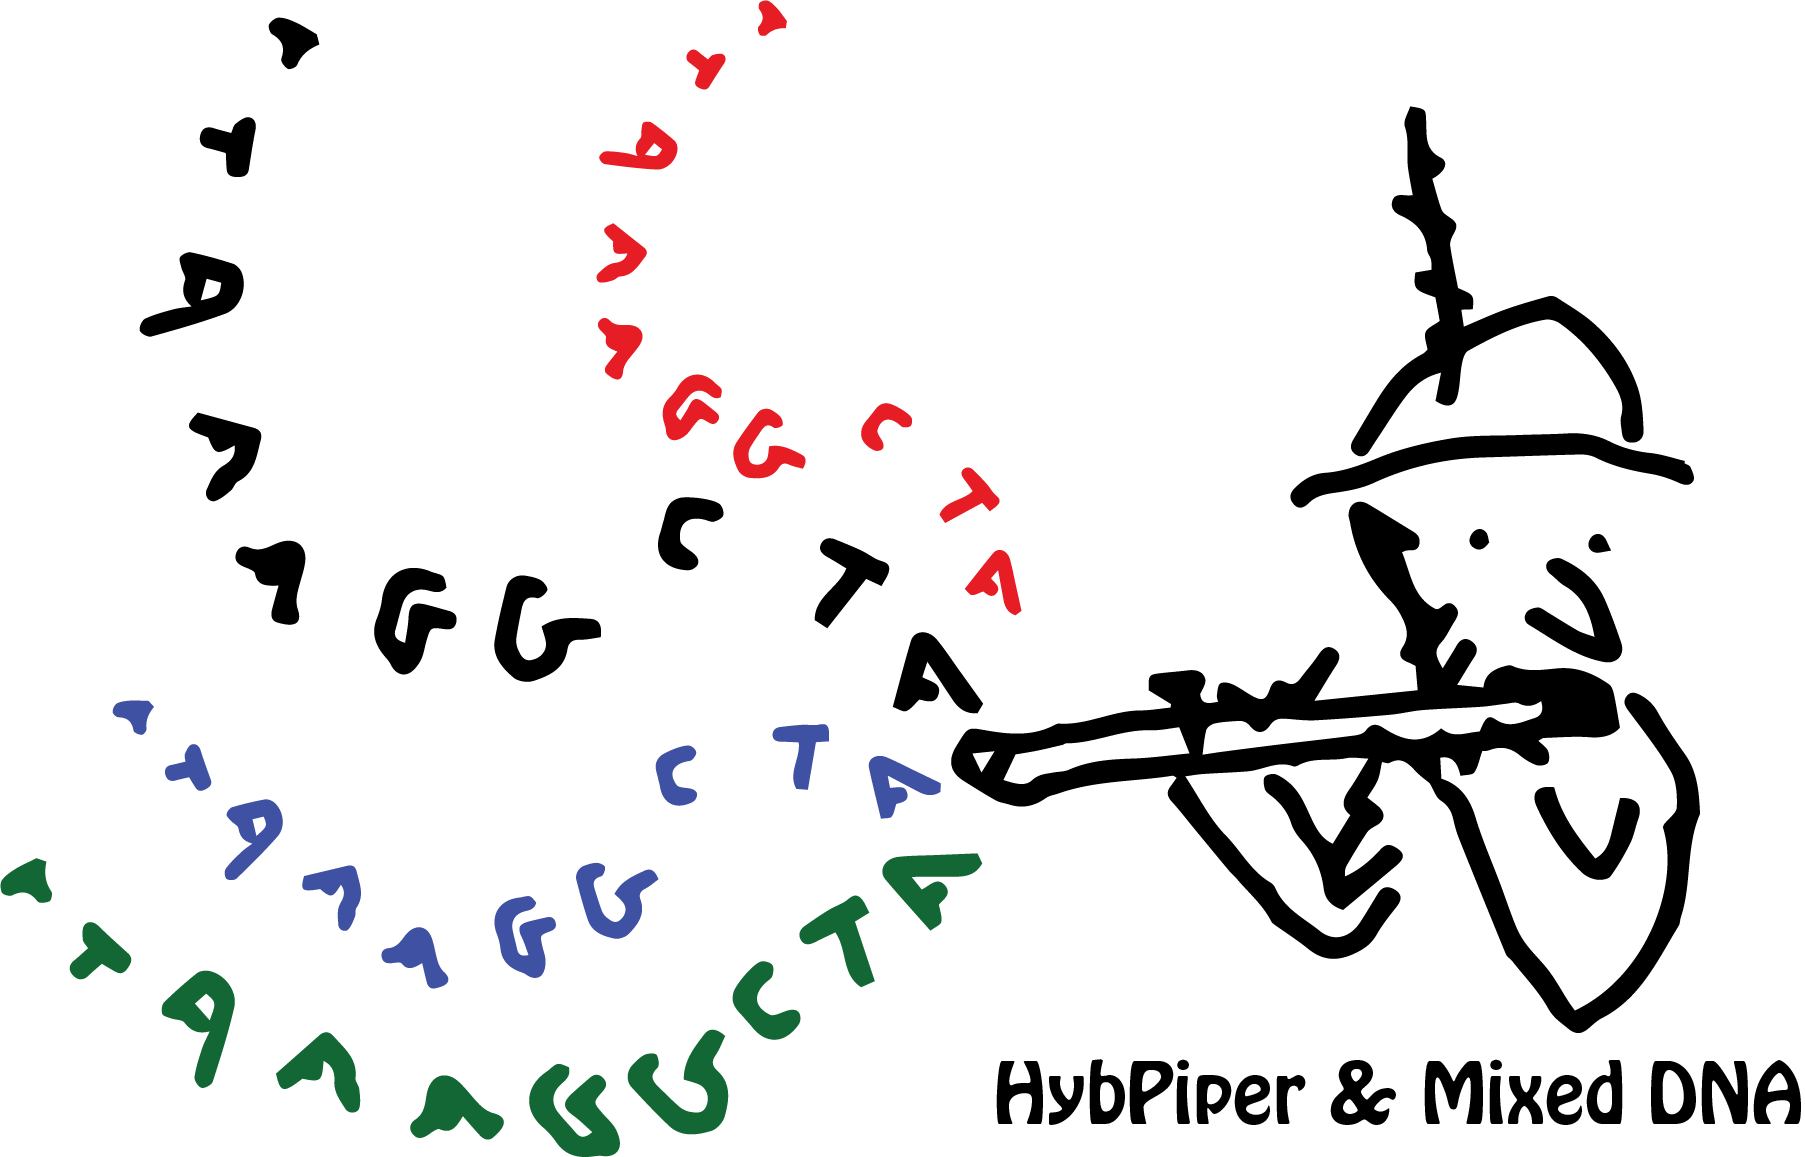
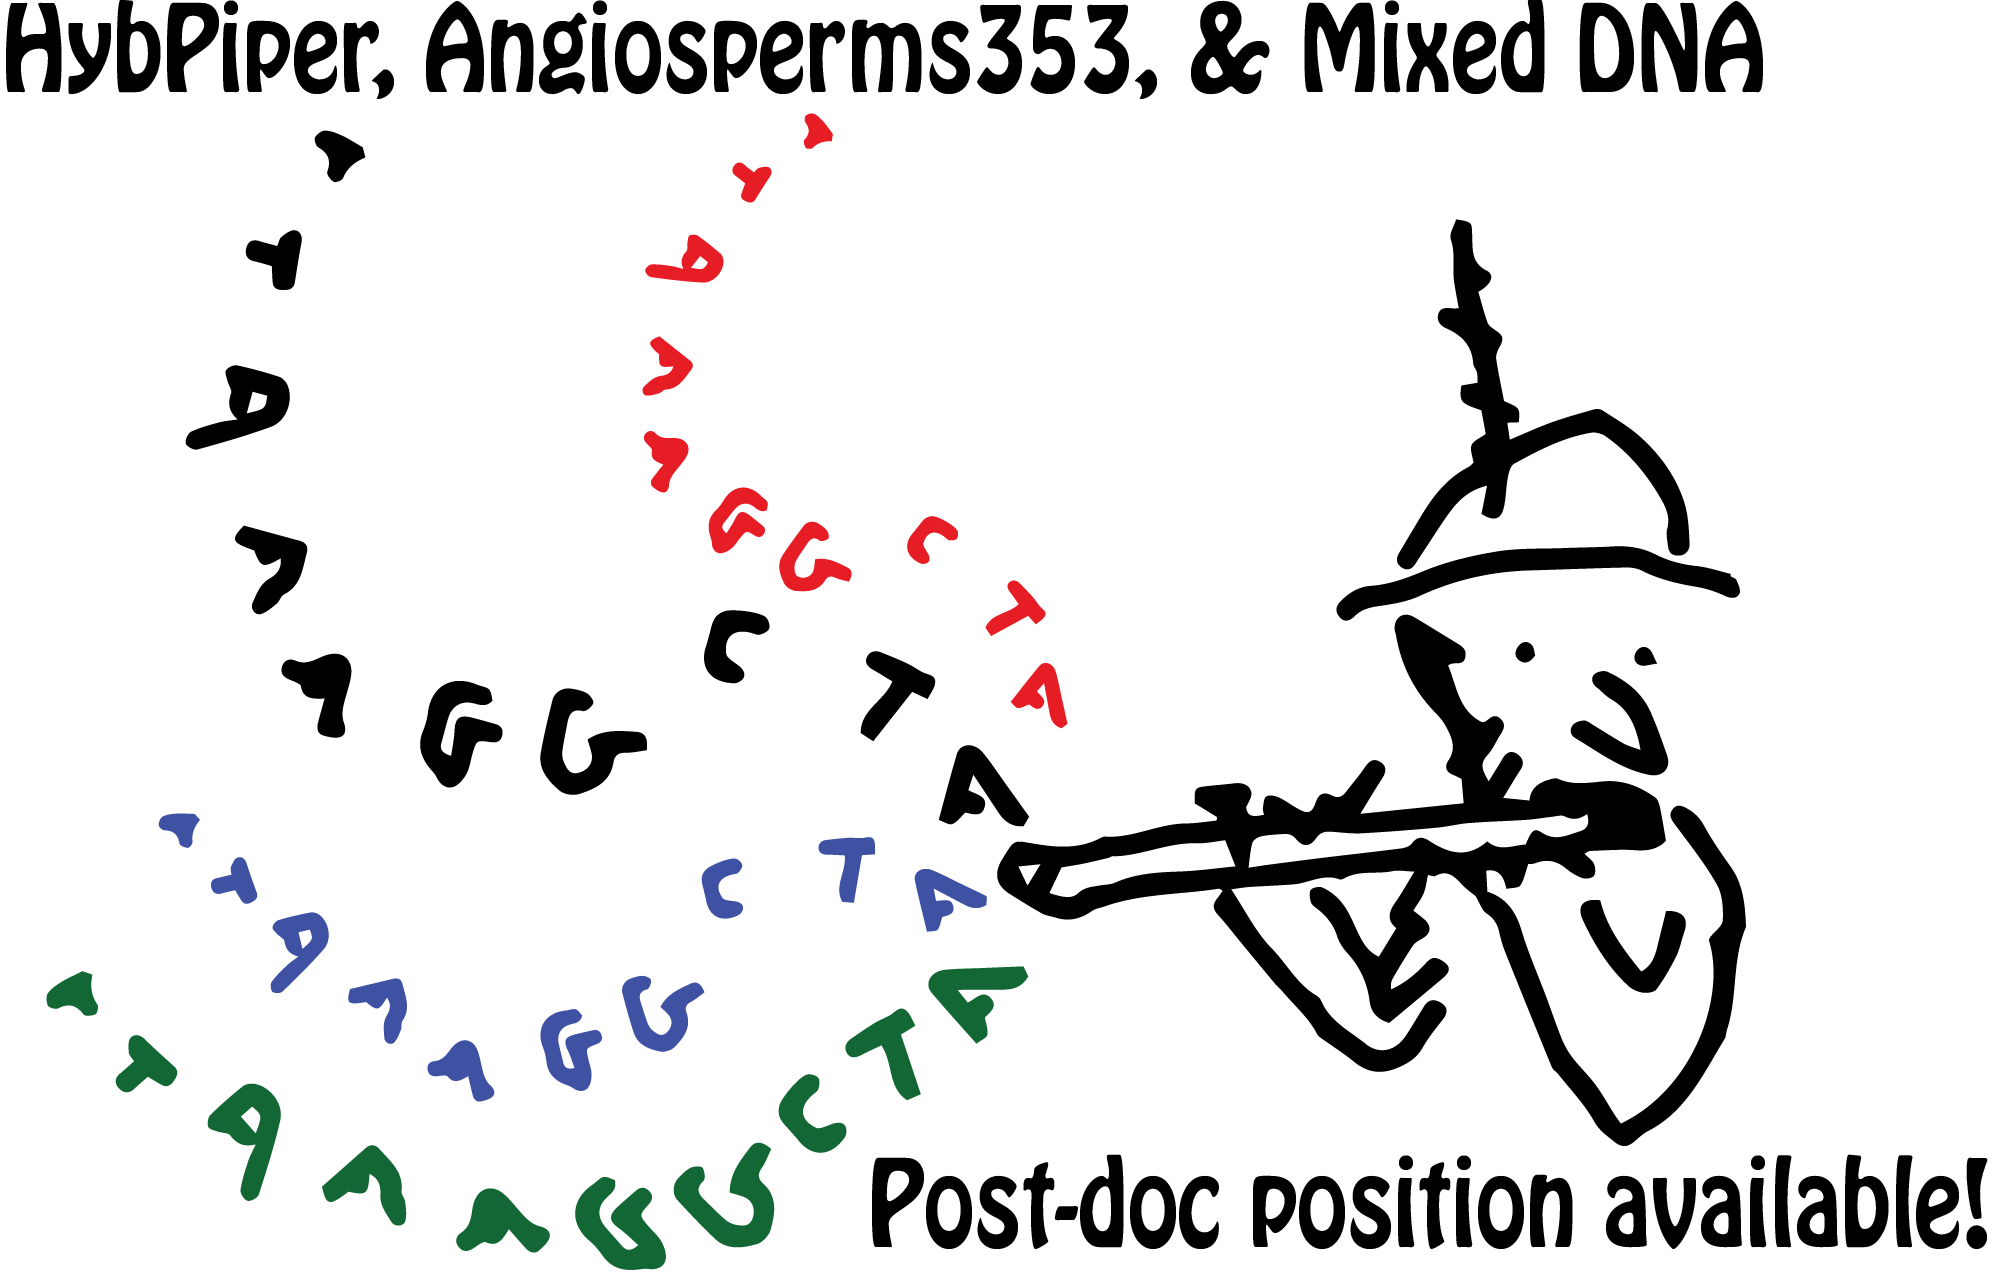
FDA postdoc ad

diff --git a/blog/_posts/2022-10-04-PostdocFDABAA.md b/blog/_posts/2022-10-04-PostdocFDABAA.md
@@ -5,12 +5,12 @@ author_handle: mossmatters
 image: /assets/images/projects/HybPiper_Mixed.png
 category: research
 homepage: false
-published: false
+published: true
 ---
 
 # Post-Doctoral Research Position
 
-The Johnson Lab at Texas Tech University (Lubbock, Texas) is looking for a postdoctoral scholar to develop novel bioinformatics methods that extend targeted DNA sequencing in plants for used on mixed and unknown samples. This two-year full-time position is funded by a Broad Agency Agreement from the United States Food and Drug Association Center for Food Safety and Nutrition (FDA-CFSAN). The successful candidate will work with Dr. Matt Johnson (Assistant Professor, TTU Department of Biological Sciences) to write open-source bioinformatics software – specifically, new methods that leverage Angiosperms353 data to extend the potential of metagenomics in plants and in collaboration with Dr. Sara Handy (FDA-CFSAN). You can find more information about the project here.
+The Johnson Lab at Texas Tech University (Lubbock, Texas) is looking for a postdoctoral scholar to develop novel bioinformatics methods that extend targeted DNA sequencing in plants for used on mixed and unknown samples. This two-year full-time position is funded by a Broad Agency Agreement from the United States Food and Drug Association Center for Food Safety and Nutrition (FDA-CFSAN). The successful candidate will work with Dr. Matt Johnson (Assistant Professor, TTU Department of Biological Sciences) to write open-source bioinformatics software – specifically, new methods that leverage Angiosperms353 data to extend the potential of metagenomics in plants and in collaboration with Dr. Sara Handy (FDA-CFSAN). [You can find more information about the project here](/projects).
 
 Applicants should have a PhD in biology (botany, evolution, genetics), computer science (bioinformatics, data science, software development) or a related field, with the degree completed before starting the postdoc position. Ideal candidates will have experience working with DNA sequence data in one or more programming languages (Python, C++, R, Java, etc) demonstrated through scientific publication and/or published code (e.g. GitHub). Preferred candidates will have strong written and oral communication skills and will have demonstrated ability to work both independently and as part of a research team.
 
@@ -25,10 +25,11 @@ The Johnson Lab is dedicated to creating a diverse, equitable, and inclusive env
 
 ## How To Apply
 
-Applications should be made directly on the TTU website by following this link.
+**All candidates should e-mail Matt Johnson (matt.johnson@ttu.edu) to confirm their application.**
 
+Follow this link to the TTU employment page to apply for position 30800BR: [https://bit.ly/3T3lryZ](https://bit.ly/3T3lryZ)
 
-**All candidates should also e-mail me (matt.johnson@ttu.edu) to confirm their application.**
+**Note for current PhD students**: If you state that you do not yet have a PhD, you may get an e-mail stating you are not qualified. That's not true! All applicants who will have a PhD by the position start date will be considered.
 
 
 ## Requirements

diff --git a/misc/_posts/2021-03-02-join.md b/misc/_posts/2021-03-02-join.md
@@ -20,6 +20,15 @@ Prospective scholars at all levels should check out our [Publications](/papers) 
 
 All members of the Johnson Lab are expected to follow the [Code of Conduct]({% post_url protocols/2018-08-01-JohnsonLabCodeofConduct %}) and should review the [Lab Expectations]({% post_url protocols/2021-08-09-Setting-Expectations %}) document.
 
+## Postdoctoral fellows
+
+**Opening in Bioinformatics Methods Development, October 2022**: [Click here for more details and how to apply.]({% post_url posts/2022-10-04-PostdocFDABAA %})
+
+We are also willing to sponsor potential post-doctoral fellows through programs such as the [National Science Foundation Postdoctoral Fellows in Biology](https://www.nsf.gov/funding/pgm_summ.jsp?pims_id=503622&org=NSF), the [Ford Foundation](http://sites.nationalacademies.org/pga/fordfellowships/pga_047960) or the [L'Oreal Women in Science](http://www.lorealusa.com/csr-commitments/the-l%E2%80%99or%C3%A9al-corporate-foundation/science/l%E2%80%99or%C3%A9al-usa-for-women-in-science-program) fellowship programs. 
+
+Prospective post-docs should send a cover letter that includes the names and contacts for three references and a short statement of research interests, along with a current CV to matt.johnson<span style="display:none">obfuscate</span>@ttu.edu
+
+
 ## Undergraduate students
 
 The Johnson Lab is accepting undergraduate students interested in any of our research projects. Student projects generally fall into three areas:
@@ -62,11 +71,7 @@ More information about applying to grad school at Texas Tech can be found on the
 
 Graduate students are encouraged to apply before December 1 to be eligible for several internal fellowships to supplement the TA stipend. I am also happy to discuss sponsoring [Graduate Research Fellowship Program students](https://www.nsfgrfp.org/) or [Ford Fellowship applicants](https://sites.nationalacademies.org/PGA/FordFellowships/index.htm).
 
-## Postdoctoral fellows
 
-We are willing to sponsor potential post-doctoral fellows through programs such as the [National Science Foundation Postdoctoral Fellows in Biology](https://www.nsf.gov/funding/pgm_summ.jsp?pims_id=503622&org=NSF), the [Ford Foundation](http://sites.nationalacademies.org/pga/fordfellowships/pga_047960) or the [L'Oreal Women in Science](http://www.lorealusa.com/csr-commitments/the-l%E2%80%99or%C3%A9al-corporate-foundation/science/l%E2%80%99or%C3%A9al-usa-for-women-in-science-program) fellowship programs. 
-
-Prospective post-docs should send a cover letter that includes the names and contacts for three references and a short statement of research interests, along with a current CV to matt.johnson<span style="display:none">obfuscate</span>@ttu.edu
 
 ## Equal Opportunity Employment
 

diff --git a/projects/_posts/2022-10-04-FDA-A353-metabarcoding.md b/projects/_posts/2022-10-04-FDA-A353-metabarcoding.md
@@ -5,12 +5,12 @@ author_handle: mossmatters
 image: /assets/images/projects/Hybpiper_venn.png
 category: research
 homepage: false
-published: false
+published: true
 ---
 
 # New Funding from FDA-CFSAN
 
-In October 2022, we began new collaboration between the Johnson Lab at Texas Tech University and the US Food and Drug Administration Center for Food Safety and Nutrition (FDA-CFSAN). Our proposal "Improving detection of plant contaminants in mixed samples with targeted sequencing of 353 nuclear protein coding genes" is aimed at extending Angiosperms353 and HybPiper for use in mixed samples, such as potentially adulterated nutritional supplements. The project funds a post-doctoral researcher, sequencing costs and travel for two years. The abstract of this Broad Agency Agreement (BAA) is below.
+In October 2022, we began new collaboration between the Johnson Lab at Texas Tech University and the US Food and Drug Administration Center for Food Safety and Nutrition (FDA-CFSAN). Our proposal "Improving detection of plant contaminants in mixed samples with targeted sequencing of 353 nuclear protein coding genes" is aimed at extending Angiosperms353 and HybPiper for use in mixed samples, such as potentially adulterated nutritional supplements. The project funds a [post-doctoral researcher]({% post_url posts/2022-10-04-PostdocFDABAA %}), sequencing costs and travel for two years. The abstract of this Broad Agency Agreement (BAA) is below.
 
 ---
 
